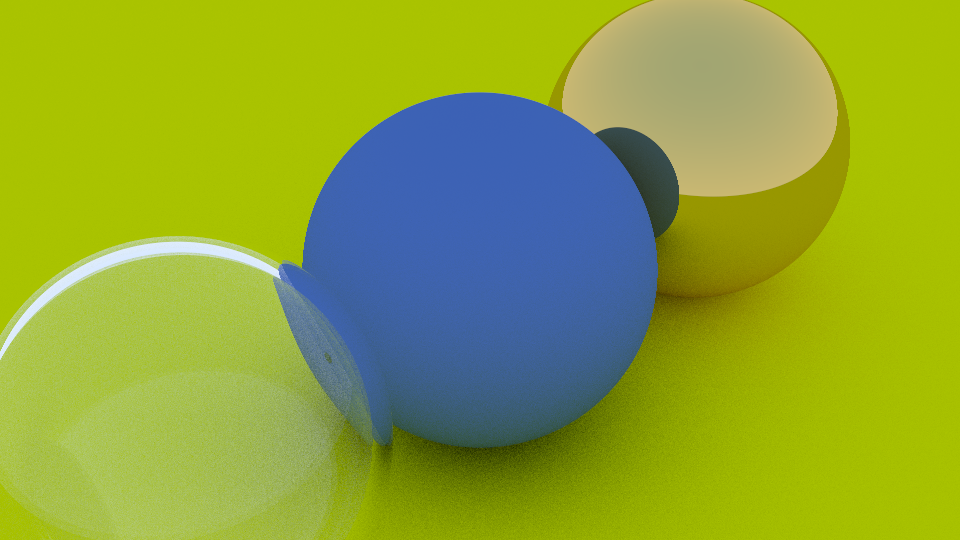
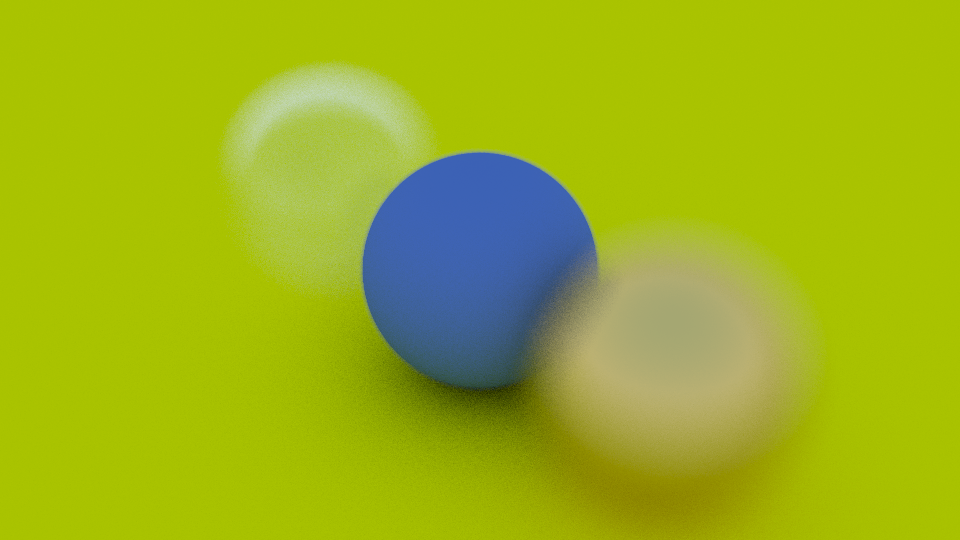
camera: add defocus blur
Our camera is now a better approximation of a real camera. Let's add
depth of field to make it a little closer to reality.

diff --git a/src/util.cpp b/src/util.cpp
@@ -1,8 +1,8 @@
 #include "include/util.hpp"
 
 CUDA_GLOBAL
-void initiate_world(int nx, int ny, hittable **list, hittable **world,
-		    camera **cam) {
+void initiate_world(int nx, int ny, float aperture, float dist_to_focus,
+		    hittable **list, hittable **world, camera **cam) {
 	list[0] = new sphere(vec3(0.0f, 0.0f, -1.0f),
 			     0.5f, new lambertian(vec3(0.1f, 0.2f, 0.5f)));
 	list[1] = new sphere(vec3(0.0f, -100.5f, -1.0f),
@@ -14,10 +14,11 @@ void initiate_world(int nx, int ny, hittable **list, hittable **world,
 	list[4] = new sphere(vec3(-1.0f, 0.0f, -1.0f),
 			      -0.45f, new dielectric(1.5));
 	*world = new hittable_list(list, 5);
-	*cam = new camera(vec3(-2.0f, 2.0f, 1.0f),
+	*cam = new camera(vec3(3.0f, 3.0f, 2.0f),
 			  vec3(0.0f, 0.0f, -1.0f),
 			  vec3(0.0f, 1.0f, 0.0f),
-			  25.0f, float(nx) / float(ny));
+			  25.0f, float(nx) / float(ny),
+			  aperture, dist_to_focus);
 }
 
 CUDA_HOST
@@ -26,6 +27,18 @@ double random_double() {
 	static std::mt19937 gen;
 	static std::function<double()> rng = std::bind(distrib, gen);
 	return rng();
+}
+
+CUDA_HOST
+vec3 random_in_unit_disk() {
+	vec3 p;
+
+	do {
+		p = 2.0f * vec3(random_double(), random_double(),
+		    0.0f) - vec3(1.0f, 1.0f, 0.0f);
+	} while (p.squared_length() >= 1.0f);
+
+	return p;
 }
 
 CUDA_HOST
@@ -96,6 +109,18 @@ vec3 color(const ray& r, hittable *world, curandState *rand) {
 }
 
 CUDA_DEVICE
+vec3 random_in_unit_disk(curandState *rand) {
+	vec3 p;
+
+	do {
+		p = 2.0f * vec3(curand_uniform(rand), curand_uniform(rand),
+		    0.0f) - vec3(1.0f, 1.0f, 0.0f);
+	} while (p.squared_length() >= 1.0f);
+
+	return p;
+}
+
+CUDA_DEVICE
 vec3 random_in_unit_sphere(curandState *rand) {
 	vec3 p;
 
@@ -126,7 +151,7 @@ void paint_pixel(int nx, int ny, int ns, camera **cam,
 		curandState drand = rand[i % (nx * ny)];
 		float u = float(i + curand_uniform(&drand)) / float(nx * ny * ns);
 		float v = float((i % (ny * ns)) + curand_uniform(&drand)) / float(ny * ns);
-		ray r((*cam)->get_ray(u, v));
+		ray r((*cam)->get_ray(u, v, &drand));
 		vec3 col = color(r, *world, &drand);
 		output[i * 3 ] = col[0];
 		output[i * 3 + 1] = col[1];

diff --git a/src/camera.cpp b/src/camera.cpp
@@ -1,22 +1,36 @@
 #include "include/camera.hpp"
 
 CUDA_DEVICE
-camera::camera(vec3 lookfrom, vec3 lookat, vec3 vup, float vfov, float aspect) :
-	origin(lookfrom)
+camera::camera(vec3 lookfrom, vec3 lookat, vec3 vup,
+	       float vfov, float aspect, float aperture, float focus_dist) :
+	origin(lookfrom), lens_radius(aperture / 2)
 {
-	vec3 w(vec3::unit_vector(lookfrom - lookat));
-	vec3 u(vec3::unit_vector(vec3::cross(vup, w)));
-	vec3 v(vec3::cross(w, u));
+	w = vec3::unit_vector(lookfrom - lookat);
+	u = vec3::unit_vector(vec3::cross(vup, w));
+	v = vec3::cross(w, u);
 	float theta = vfov * M_PI / 180;
 	float half_height = tan(theta / 2);
 	float half_width = aspect * half_height;
-	lower_left_corner = origin - half_width * u - half_height * v - w;
-	horizontal = 2 * half_width * u;
-	vertical = 2 * half_height * v;
+	lower_left_corner = origin - focus_dist * (half_width * u
+						   + half_height * v + w);
+	horizontal = 2 * half_width * focus_dist * u;
+	vertical = 2 * half_height * focus_dist * v;
 }
 
 CUDA_DEVICE
-ray camera::get_ray(float u, float v) {
-	return ray(origin, lower_left_corner
-			   + u * horizontal + v * vertical - origin);
+ray camera::get_ray(float s, float t
+#ifdef __CUDACC__
+		    , curandState *rand
+		    ) {
+	vec3 rd = lens_radius * random_in_unit_disk(rand);
+#else
+		    ) {
+	vec3 rd = lens_radius * random_in_unit_disk();
+#endif
+	vec3 offset = u * rd.x() + v * rd.y();
+
+	return ray(origin + offset, lower_left_corner
+				    + s * horizontal
+				    + t * vertical
+				    - origin - offset);
 }

diff --git a/src/tracer.cpp b/src/tracer.cpp
@@ -5,8 +5,14 @@
 int main(void) {
 	int nx = 960;
 	int ny = 540;
-	int ns = 1;
+	int ns = 100;
 	float *output = new float[nx * ny * ns * 3];
+
+	vec3 lookfrom(3.0f, 3.0f, 2.0f);
+	vec3 lookat(0.0f, 0.0f, -1.0f);
+
+	float aperture = 2.0f;
+	float dist_to_focus = (lookfrom - lookat).length();
 
 	camera **dcam;
 	hittable **dlist;
@@ -24,7 +30,8 @@ int main(void) {
 	cudaMalloc((void **)&rand, nx * ny * sizeof(curandState));
 	cudaMalloc((void **)&doutput, nx * ny * ns * 3 * sizeof(float));
 
-	initiate_world<<<1, 1>>>(nx, ny, dlist, dworld, dcam);
+	initiate_world<<<1, 1>>>(nx, ny, aperture, dist_to_focus,
+				 dlist, dworld, dcam);
 	init_random<<<num_blocks, block_size>>>(nx, ny, rand);
 	paint_pixel<<<num_blocks, block_size>>>(nx, ny, ns, dcam, dworld, rand, doutput);
 
@@ -45,10 +52,10 @@ int main(void) {
 	dworld = new hittable*[1];
 	*dworld = new hittable_list(dlist, 5);
 	dcam = new camera*[1];
-	*dcam = new camera(vec3(-2.0f, 2.0f, 1.0f),
-			   vec3(0.0f, 0.0f, -1.0f),
+	*dcam = new camera(lookfrom, lookat,
 			   vec3(0.0f, 1.0f, 0.0f),
-			   25.0f, float(nx) / float(ny));
+			   25.0f, float(nx) / float(ny),
+			   aperture, dist_to_focus);
 
 	paint_pixel(nx, ny, ns, dcam, dworld, output);
 #endif

diff --git a/src/include/util.hpp b/src/include/util.hpp
@@ -12,6 +12,7 @@
 
 #ifdef __CUDACC__
 #include <curand_kernel.h>
+CUDA_DEVICE vec3 random_in_unit_disk(curandState *rand);
 CUDA_DEVICE vec3 random_in_unit_sphere(curandState *rand);
 CUDA_DEVICE vec3 color(const ray &r, hittable *world, curandState *rand);
 CUDA_GLOBAL void init_random(int nx, int ny, curandState *rand);
@@ -21,6 +22,7 @@ CUDA_GLOBAL void paint_pixel(int nx, int ny, int ns, camera **cam,
 
 CUDA_HOST vec3 color(const ray& r, hittable *world);
 CUDA_HOST double random_double();
+CUDA_HOST vec3 random_in_unit_disk();
 CUDA_HOST vec3 random_in_unit_sphere();
 
 CUDA_DEVICE vec3 reflect(const vec3 &v, const vec3 &n);
@@ -28,8 +30,8 @@ CUDA_DEVICE bool refract(const vec3 &v, const vec3 &n,
 			 float ni_over_nt, vec3 &refracted);
 CUDA_DEVICE float schlick(float cosine, float ref_idx);
 
-CUDA_GLOBAL void initiate_world(int nx, int ny, hittable **list,
-				hittable **world, camera **cam);
+CUDA_GLOBAL void initiate_world(int nx, int ny, float aperture, float dist_to_focus,
+				hittable **list, hittable **world, camera **cam);
 CUDA_GLOBAL void paint_pixel(int nx, int ny, int ns, camera **cam,
 			     hittable **world, float *output);
 

diff --git a/src/include/camera.hpp b/src/include/camera.hpp
@@ -3,13 +3,26 @@
 
 #include "ray.hpp"
 
+#ifdef __CUDACC__
+#include <curand_kernel.h>
+CUDA_DEVICE extern vec3 random_in_unit_disk(curandState *rand);
+#else
+CUDA_HOST extern vec3 random_in_unit_disk();
+#endif
+
 class camera {
 public:
 	CUDA_DEVICE camera(vec3 lookfrom, vec3 lookat, vec3 vup,
-			   float vfov, float aspect);
-	CUDA_DEVICE ray get_ray(float u, float v);
+	       float vfov, float aspect, float aperture, float focus_dist);
+	CUDA_DEVICE ray get_ray(float s, float t
+#ifdef __CUDACC__
+				, curandState *rand
+#endif
+				);
 
 	vec3 origin, vertical, horizontal, lower_left_corner;
+	vec3 u, v, w;
+	float lens_radius;
 };
 
 #endif
